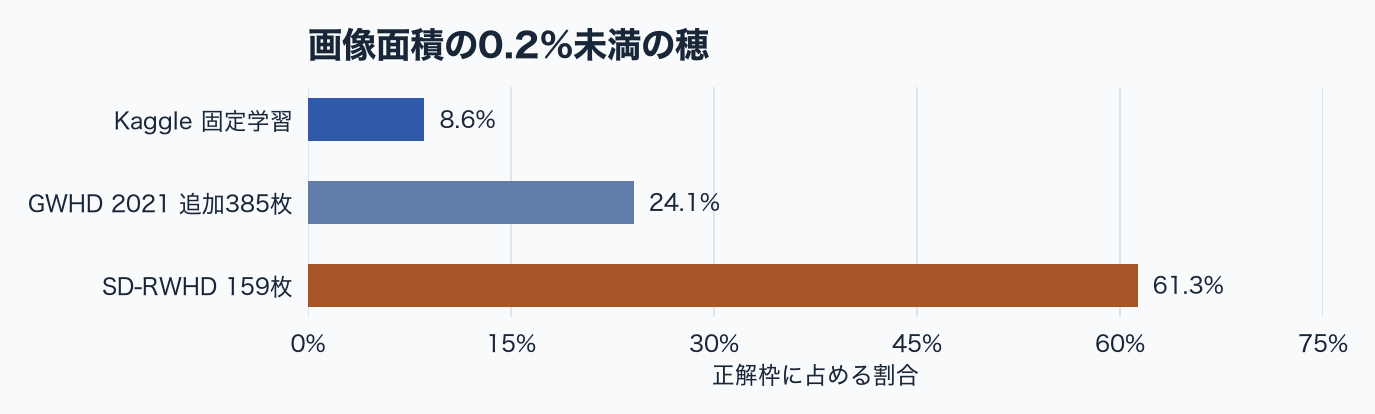
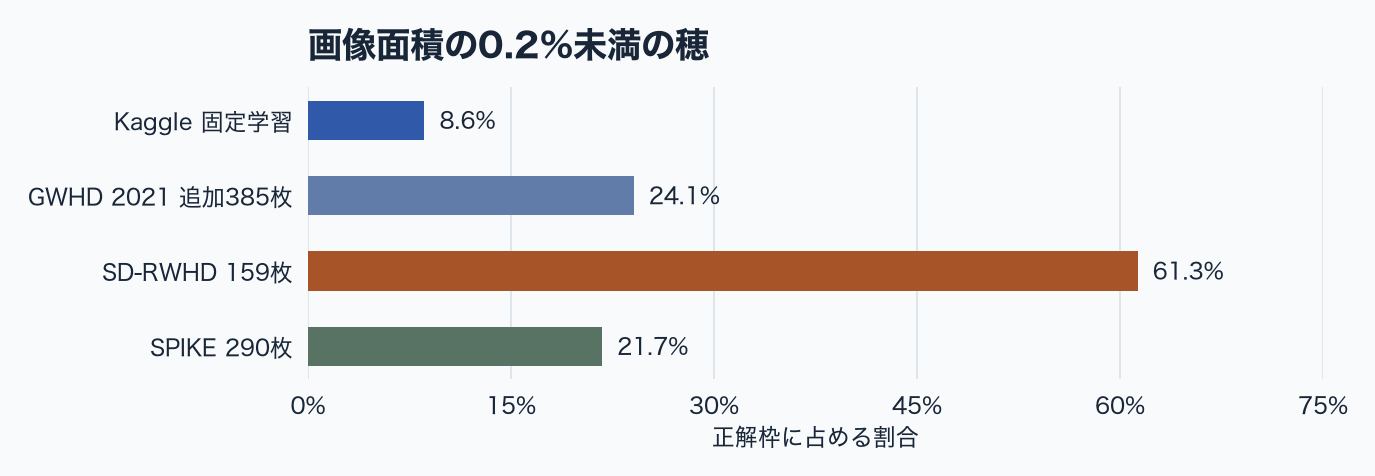
docs: SPIKE追加データの重複除外と分布を記録する

diff --git a/scripts/plot_wheat_data_profile.py b/scripts/plot_wheat_data_profile.py
@@ -95,8 +95,8 @@ def plot_brightness(profile, output):
 def plot_small_head_sources(rows, output):
     labels = [row["label"] for row in rows]
     shares = [row["small_heads"] / row["heads"] for row in rows]
-    fig, ax = make_axis("画像面積の0.2%未満の穂", labels, "正解枠に占める割合", 2.4)
-    bars = ax.barh(range(len(rows)), shares, height=0.52, color=["#3159a9", "#627caa", "#a85429"])
+    fig, ax = make_axis("画像面積の0.2%未満の穂", labels, "正解枠に占める割合", 2.8)
+    bars = ax.barh(range(len(rows)), shares, height=0.52, color=["#3159a9", "#627caa", "#a85429", "#587364"])
     ax.bar_label(bars, labels=[f"{share:.1%}" for share in shares], padding=7, color=FOREGROUND)
     ax.set_xlim(0, 0.75)
     ax.xaxis.set_major_locator(MultipleLocator(0.15))
